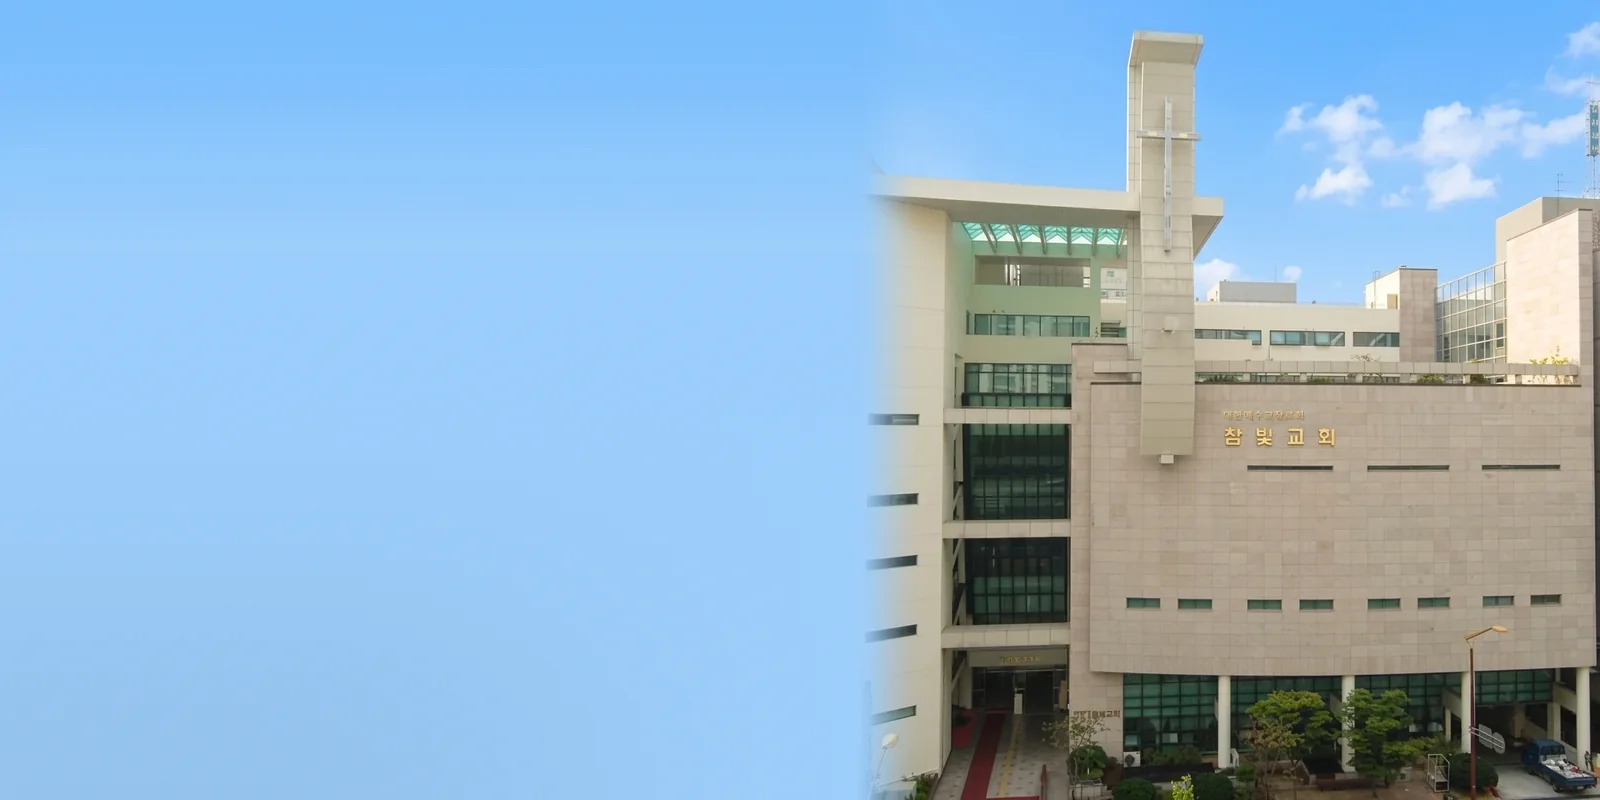
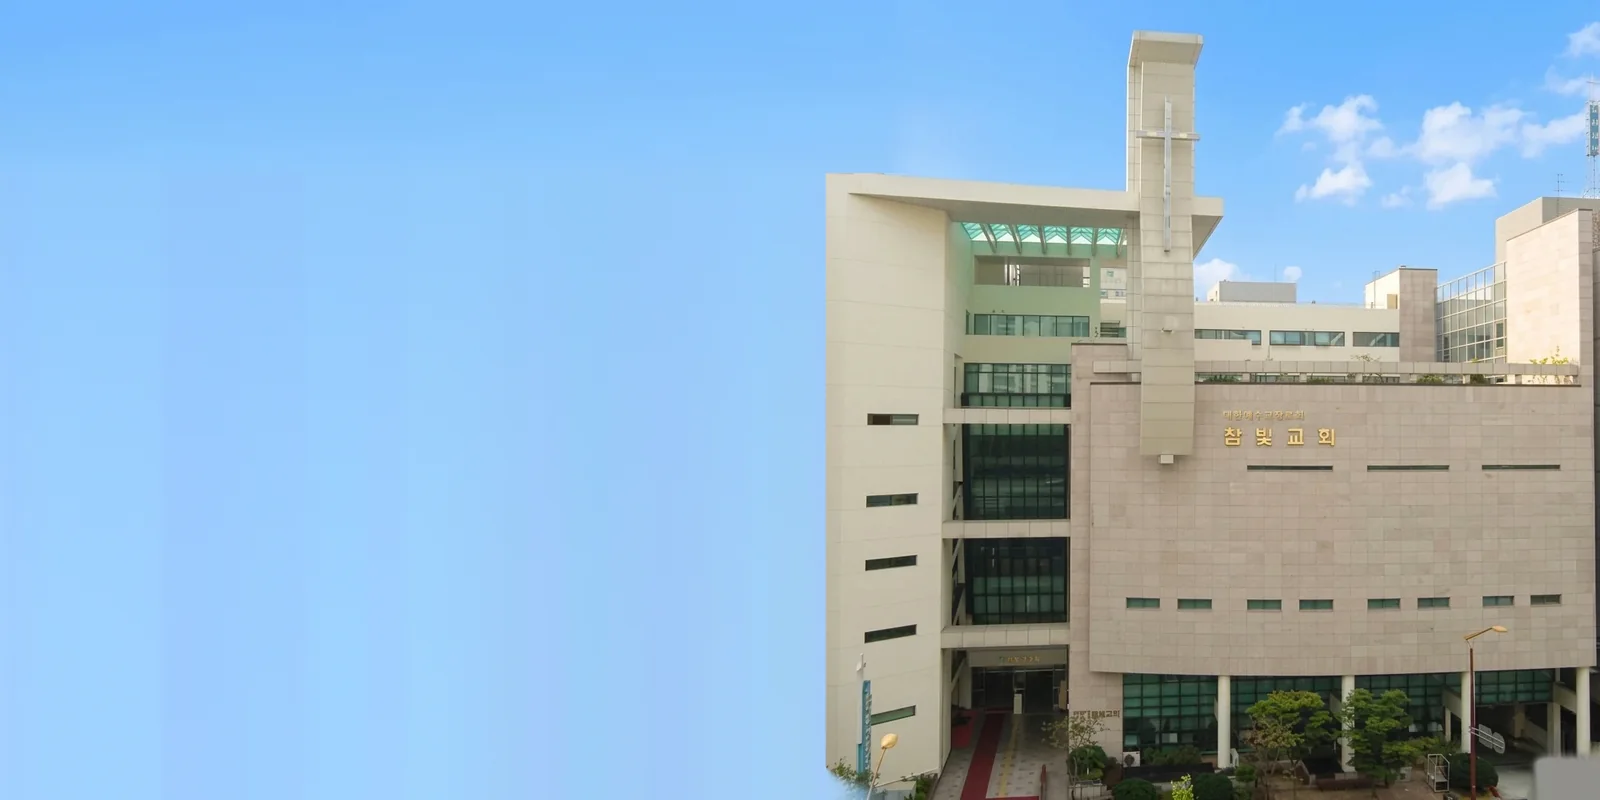
오시는길배경다시개선

Changed region(s): [[0.5, 0.2188, 0.5938, 1.0], [0.9375, 0.9062, 1.0, 1.0]]

diff --git a/frontend/src/pages/Visit/Visit.css b/frontend/src/pages/Visit/Visit.css
@@ -62,8 +62,9 @@
 }
 
 /* 사진 무대 — 실제 예배당 사진(라이트 낮 / 다크 밤, Visit.tsx 가 고른다).
-   자산은 1600x800(2:1) 와이드: 오른쪽 47%가 십자가 탑부터 입구·가로등까지 교회 전경,
-   왼쪽은 그 사진의 하늘을 이어 그린 여백(글자 자리). 카드는 자산보다 좁은 비율(16:10)이라
+   자산은 1600x800(2:1) 와이드(scripts/build_visit_hero.py): 오른쪽 48%가 십자가 탑부터 입구·가로등까지
+   교회 전경(왼쪽 동 실제 모서리에서 자름), 왼쪽은 그 사진의 진짜 하늘(구름 포함)을 이어 붙인 여백(글자 자리).
+   카드는 자산보다 좁은 비율(16:10)이라
    세로는 온전히 남고 왼쪽 하늘만 잘린다 — 오른쪽 기준 정렬이 교회를 지킨다.
    사진이 없으면 시간대 하늘 토큰으로 대신한다 */
 .visit-hero-photo {
@@ -106,19 +107,19 @@
   min-height: 0;
   aspect-ratio: 16 / 10;
 }
-/* 스크림 — 글자가 앉는 왼쪽 아래만 옅게 누른다. 교회 전경(오른쪽)은 원색 그대로.
+/* 스크림 — 글자가 앉는 왼쪽 아래 모서리에서 퍼지는 비네트 한 장만. 교회 전경(오른쪽)은 원색 그대로.
    (테마 분기 금지 원칙의 예외 — 사진 위 오버레이는 토큰으로 못 가르는 확정 패턴)
-   라이트: 낮 사진의 밝은 하늘·입구 위에 흰 글자가 뜨므로 바닥만 살짝. 가독성의 나머지는 halo 그림자.
+   폭 전체를 가로지르는 띠(to top)는 왼쪽 하늘 아랫부분을 탁한 회청색으로 만들어 사진 하늘과 색이
+   어긋나 보였다(2026-09-03) → 모서리 비네트로 좁히고 농도도 낮춘다. 가독성의 나머지는 halo 그림자.
    다크: 밤 사진은 하늘이 이미 남색이라 더 옅게 — 불 켜진 창과 가로등 불빛이 죽지 않게 */
 .visit-hero.has-photo .visit-hero-scrim {
   background:
-    linear-gradient(to top, rgba(10, 22, 48, 0.4) 0%, rgba(10, 22, 48, 0.16) 40%, transparent 70%),
-    linear-gradient(100deg, rgba(10, 22, 48, 0.14) 0%, rgba(10, 22, 48, 0.05) 40%, transparent 60%);
+    radial-gradient(110% 95% at 0% 100%, rgba(22, 82, 168, 0.3) 0%, rgba(22, 82, 168, 0.1) 45%, transparent 72%);
 }
+/* 라이트 스크림 색은 남색이 아니라 하늘의 자기 색(진한 하늘색) — 남색을 옅은 하늘에 얹으면 회청색 얼룩이 된다 */
 .dark .visit-hero.has-photo .visit-hero-scrim {
   background:
-    linear-gradient(to top, rgba(6, 14, 36, 0.4) 0%, rgba(6, 14, 36, 0.16) 38%, transparent 66%),
-    linear-gradient(100deg, rgba(6, 14, 36, 0.12) 0%, transparent 45%);
+    radial-gradient(110% 95% at 0% 100%, rgba(6, 14, 36, 0.34) 0%, rgba(6, 14, 36, 0.12) 45%, transparent 70%);
 }
 /* 안쪽 흰 링 — 유리 액자. 아주 옅게만: 라이트는 흰 페이지 위라 거의 안 보이고,
    다크는 밤하늘 위에서 선이 도드라지지 않을 만큼만 */

diff --git a/frontend/scripts/build_visit_hero.py b/frontend/scripts/build_visit_hero.py
@@ -1,19 +1,32 @@
 """/visit 히어로 자산 빌드.
 
 원본 예배당 사진(1024x1048, 낮/밤)을 오른쪽에 두고 — 십자가 탑부터 입구·가로등까지 전경 그대로 —
-왼쪽은 그 사진의 하늘에서 샘플한 그라데이션으로 이어 붙인 1600x800(2:1) 와이드 자산을 만든다.
-교회 왼쪽 가장자리(이웃 건물 제외)는 하늘로 부드럽게 녹인다.
+왼쪽은 그 사진의 '진짜 하늘'(구름 포함)을 좌우로 이어 붙인 1600x800(2:1) 와이드 자산을 만든다.
+
+이음새 원칙(2026-09-03, 이전 방식은 왼쪽 동을 세로로 잘라 72px 페더로 녹였는데
+'건물이 반쯤 지워진' 어색한 세로 경계 + 합성 하늘의 색이 사진과 안 맞는다는 피드백):
+  * 교회는 왼쪽 동 벽의 실제 모서리(원본 x=8)에서 자른다 — 경계가 건축선이라 페더가 필요 없다.
+  * 동 지붕 위로 보이던 이웃 건물(x<84, y<227)만 하늘로 지운다.
+  * 왼쪽 하늘은 합성 그라데이션이 아니라 사진의 하늘 영역(SKY_BOX)을 좌우 반전해 쓴다.
+    세로는 지붕 높이까지 사진과 같은 축척(이음새 색이 정의상 연속), 그 아래는 하늘 아랫부분을
+    길게 늘여 지평선 안개처럼 — 구름·안개 질감이 그대로라 '붙인 티'가 안 난다.
+  * 지면(맨 아래 몇 십 px)만 왼쪽으로 부드럽게 녹인다.
 
     python scripts/build_visit_hero.py
       → public/images/visit/_backup/church-{day,night}-src.webp 를 읽어
         public/images/visit/church-{day,night}.webp 를 덮어쓴다
-    python scripts/build_visit_hero.py 낮원본.png 밤원본.png   # 다른 원본으로
+    python scripts/build_visit_hero.py 낮원본.png 밤원본.png   # 다른 원본으로 (같은 구도여야 한다)
 """
 import sys
 from pathlib import Path
 
 import numpy as np
 from PIL import Image, ImageDraw, ImageFilter
+
+try:
+    import cv2
+except ImportError:  # pragma: no cover
+    cv2 = None
 
 ROOT = Path(__file__).resolve().parents[1]
 VISIT = ROOT / 'public' / 'images' / 'visit'
@@ -22,26 +35,50 @@ SRC = {
     'night': Path(sys.argv[2]) if len(sys.argv) > 2 else VISIT / '_backup' / 'church-night-src.webp',
 }
 W, H = 1600, 800
-CROP_L = 44          # 원본 왼쪽 끝의 이웃 건물 잘라냄
-FEATHER = 72         # 교회 왼쪽 가장자리를 하늘로 녹이는 폭(캔버스 px). 260이면 왼쪽 동(약 140px)이 통째로 사라지고,
-                     # 120도 왼쪽 동 창이 반쯤 가려 '사진을 덜 가리게' 피드백 → 좁게
-SKY_X = (540, 600)   # 순수 하늘 샘플 열(원본 좌표, 십자가 탑 오른쪽)
-SKY_Y = 330          # 이 행까지가 순수 하늘
-# 지평선 쪽 외삽 감쇠 — 낮은 옅게 밝아져도 자연스럽지만 밤은 남색을 지켜야 회보라로 바래지 않는다
-DAMP = {'day': 0.05, 'night': 0.10}   # 낮 0.35는 왼쪽 아래가 희게 바래 오른쪽 사진 하늘과 색이 안 맞았다(2026-09-03)
-FLATTEN = {'day': 0.35, 'night': 0.0}   # 밤 0.45는 위쪽이 사진 하늘보다 밝아져 좌우 색이 어긋났다(2026-09-03)
-# 먼 도시 보케: zoom=캔버스 높이 대비 확대, blur=흐림 반경, hi_from 이상 밝기만 점광(glow·warm 색),
-# lo_to 이하 어둠은 shade 만큼 눌러 건물 실루엣. 2026-09-03 현재 glow·shade=0 으로 꺼둠 —
-# 흐린 띠가 '얼룩'으로 읽힌다는 피드백. 레퍼런스처럼 깨끗한 하늘 + 잎 실루엣만 쓴다
-BOKEH = {
-    'day': dict(zoom=1.4, blur=30, hi_from=0.80, glow=0.0, warm=(255, 250, 235), lo_to=0.45, shade=0.0),
-    'night': dict(zoom=1.4, blur=26, hi_from=0.45, glow=0.0, warm=(214, 178, 118), lo_to=0.16, shade=0.0),
-}
+WING_X = 8                     # 왼쪽 동 벽의 실제 모서리(원본 x). 그 왼쪽은 이웃 건물
+NEIGH = (84, 227)              # 이웃 건물이 동 지붕 위로 보이는 영역: x<84, y<227 (원본) → 하늘로
+SKY_BOX = (84, 0, 400, 226)    # 왼쪽 동 바로 옆 하늘(구름 없음, 십자가 탑 왼쪽) — 이음새와 같은 색.
+                               # 오른쪽 구름 하늘(500~865)을 늘려 쓰면 구름이 얼룩처럼 번지고 색도 벽 옆보다 진해
+                               # 어긋난다는 피드백(2026-09-03)
+EXT_DAMP = {'day': 0.18, 'night': 0.08}   # 지붕 아래로 하늘 아랫부분의 밝아지는 추세를 옅게만 이어 간다 — 밤은 남색을 지켜야 회보라로 안 바랜다
+EDGE_SOFT = 2.5                # 벽 모서리 안티에일리어싱 폭(px)
+GROUND_Y = 1000                # 이 행(원본) 아래 지면만 왼쪽으로 녹인다
+GROUND_FEATHER = 90
+TEX_BLUR = 5                   # 늘린 하늘의 보간 자국을 지우는 정도
+# 원본 오른쪽 아래 용달차(+옆 사람)를 지운다(2026-09-03 요청). OpenCV FSR 인페인팅 — Telea·패치 복제는
+# 얼룩·타일 무늬가 났고, 광장 바닥은 FSR 이 가장 매끈했다. 다각형은 원본 좌표
+REMOVE_POLYS = [
+    [(914, 972), (975, 962), (1024, 972), (1024, 1048), (930, 1048), (914, 1030)],   # 용달차
+    [(1000, 978), (1018, 978), (1018, 1012), (1000, 1012)],                           # 사람
+]
 # 잎 실루엣: rx·ry=왼쪽 위 기준 타원 마스크 반경(화면 비율), alpha=최대 농도, darken=실루엣 색(하늘색×배율)
 FOLIAGE = {
-    'day': dict(rx=0.62, ry=0.80, alpha=0.0, darken=0.80, vignette=0.06),   # 라이트는 나무 없이 파란 하늘만(사용자 결정)
-    'night': dict(rx=0.62, ry=0.80, alpha=0.82, darken=0.52, vignette=0.07),
+    'day': dict(rx=0.62, ry=0.80, alpha=0.0, darken=0.80),    # 라이트는 나무 없이 파란 하늘만(사용자 결정)
+    'night': dict(rx=0.62, ry=0.80, alpha=0.82, darken=0.52),  # 밤은 모서리에 걸린 가지 몇 개(2026-09-03 유지)
 }
+
+
+
+def smoothstep(t):
+    t = np.clip(t, 0, 1)
+    return t * t * (3 - 2 * t)
+
+
+def remove_objects(im, polys):
+    """다각형 영역을 주변 질감으로 메운다(FSR). OpenCV contrib 이 없으면 원본 그대로 두고 경고."""
+    if cv2 is None or not hasattr(cv2, 'xphoto'):
+        print('  ! opencv-contrib 없음 — 용달차 제거 생략')
+        return im
+    mask = Image.new('L', im.size, 0)
+    d = ImageDraw.Draw(mask)
+    for poly in polys:
+        d.polygon(poly, fill=255)
+    keep = (255 - np.asarray(mask)).astype(np.uint8)
+    bgr = cv2.cvtColor(np.asarray(im), cv2.COLOR_RGB2BGR)
+    dst = np.zeros_like(bgr)
+    cv2.xphoto.inpaint(bgr, keep, dst, cv2.xphoto.INPAINT_FSR_BEST)
+    return Image.fromarray(cv2.cvtColor(dst, cv2.COLOR_BGR2RGB))
+
 
 def foliage_mask(w, h, seed=0):
     """왼쪽 위에서 늘어진 나뭇가지 실루엣(0~1 마스크).
@@ -118,76 +155,60 @@ def foliage_mask(w, h, seed=0):
     return np.clip(sharp + 0.15 * soft, 0, 1)
 
 
-def smoothstep(t):
-    t = np.clip(t, 0, 1)
-    return t * t * (3 - 2 * t)
-
-
 for key, path in SRC.items():
-    im = Image.open(path).convert('RGB')
-    src = np.asarray(im).astype(np.float32)
+    im = remove_objects(Image.open(path).convert('RGB'), REMOVE_POLYS)
     scale = H / im.height
 
-    # 하늘 그라데이션: 샘플 열의 행별 평균 → 캔버스 스케일로 보간 → 아래로 완만히 외삽
-    col = src[:SKY_Y, SKY_X[0]:SKY_X[1]].mean(axis=1)
-    sky_rows = int(SKY_Y * scale)
-    ys = np.linspace(0, SKY_Y - 1, sky_rows)
-    grad = np.stack([np.interp(ys, np.arange(SKY_Y), col[:, c]) for c in range(3)], axis=1)
-    top, bot = grad[:40].mean(axis=0), grad[-40:].mean(axis=0)
-    slope = (bot - top) / max(sky_rows, 1)
-    rest = H - sky_rows
-    t = np.arange(rest) / max(rest, 1)
-    ext = bot[None, :] + slope[None, :] * (rest * (1 - (1 - t) ** 2) * DAMP[key])[:, None]
-    grad = np.clip(np.concatenate([grad, ext], axis=0), 0, 255)
-    # 밤: 지평선 밝은 띠를 눌러 하늘을 고르게(중간이 뿌옇게 밝으면 안개처럼 보인다)
-    grad = grad * (1 - FLATTEN[key]) + grad.mean(axis=0, keepdims=True) * FLATTEN[key]
-    canvas = np.repeat(grad[:, None, :], W, axis=1)
+    # ── 하늘 캔버스: 사진의 진짜 하늘을 좌우 반전해 캔버스 전체 폭으로(구름이 가로로 길어지는 건 층운처럼 자연스럽다)
+    sky = im.crop(SKY_BOX).transpose(Image.FLIP_LEFT_RIGHT)
+    sky_h = SKY_BOX[3] - SKY_BOX[1]
+    roof_c = int(NEIGH[1] * scale)                       # 캔버스에서 동 지붕 높이
+    s = np.asarray(sky.resize((W, sky_h), Image.LANCZOS)).astype(np.float32)
+    # 세로: 하늘 샘플 높이까지 1:1(이음새 색 연속), 그 아래는 마지막 행 색을 잇되 지평선 쪽 밝아지는 추세만 옅게 외삽
+    top_c = int(sky_h * scale)
+    ys = np.minimum(np.arange(H) / scale, sky_h - 1)
+    canvas = np.stack(
+        [np.stack([np.interp(ys, np.arange(sky_h), s[:, x, c]) for c in range(3)], axis=1) for x in range(W)],
+        axis=1,
+    )
+    slope = (s[-20:].mean(axis=0) - s[-60:-40].mean(axis=0)) / (40 / scale)   # 캔버스 행당 변화
+    rest = H - top_c
+    t = np.arange(rest) / max(rest - 1, 1)
+    canvas[top_c:] += (slope[None, :, :] * (rest * (1 - (1 - t) ** 2) * EXT_DAMP[key])[:, None, None])
+    canvas = np.asarray(
+        Image.fromarray(np.clip(canvas, 0, 255).astype(np.uint8)).filter(ImageFilter.GaussianBlur(TEX_BLUR))
+    ).astype(np.float32)
 
-    # ── 왼쪽 여백을 '심도 흐림 장면'으로: 단색 하늘은 밋밋하다는 피드백(2026-09-03) ──
-    yy, xx = np.mgrid[0:H, 0:W]
-    fx, fy = xx / W, yy / H
-    left_mask = 1 - smoothstep((fx - 0.28) / 0.30)          # 왼쪽에서 교회 쪽으로 사라지는 가중치
-
-    # (1) 먼 도시 보케: 사진을 좌우 반전·확대·강하게 흐린 뒤, 밝은 부분(불 켜진 창)만 따뜻한
-    #     점광으로 얹고 어두운 덩어리는 살짝만 눌러 '멀리 흐릿한 건물 실루엣'을 만든다.
-    #     흐린 사진을 통째로 깔면 회색 안개가 되므로(검증됨) 하이라이트·섀도만 쓴다
-    bk = BOKEH[key]
-    big = im.transpose(Image.FLIP_LEFT_RIGHT)
-    bh = int(H * bk['zoom'])
-    big = big.resize((round(big.width * bh / big.height), bh), Image.LANCZOS)
-    big = big.filter(ImageFilter.GaussianBlur(bk['blur']))
-    lum = np.asarray(big.convert('L')).astype(np.float32) / 255
-    lum = lum[bh - H:, :W] if lum.shape[1] >= W else np.pad(lum[bh - H:], ((0, 0), (0, W - lum.shape[1])), mode='edge')
-    band = smoothstep((fy - 0.30) / 0.25) * (1 - smoothstep((fy - 0.80) / 0.15))   # 화면 중간~아래 띠
-    hi = np.clip((lum - bk['hi_from']) / (1 - bk['hi_from']), 0, 1) * band * left_mask
-    lo = np.clip((bk['lo_to'] - lum) / bk['lo_to'], 0, 1) * band * left_mask
-    warm = np.array(bk['warm'], np.float32)[None, None, :]
-    canvas = canvas * (1 - bk['shade'] * lo[..., None])
-    canvas = canvas + (warm - canvas) * (bk['glow'] * hi)[..., None]
-
-    # (2) 초점 밖 잎·가지 실루엣(절차적): 왼쪽 위 모서리에서 늘어진 가지에 잎을 흩뿌리고 흐린다.
-    #     사진의 나무를 잘라 쓰면 창문 격자가 딸려와 어색하다(검증됨)
+    # ── 초점 밖 잎·가지 실루엣(절차적, 밤만): 왼쪽 위 모서리에서 늘어진 가지.
+    #    사진의 나무를 잘라 쓰면 창문 격자가 딸려와 어색하다(검증됨)
     fl = FOLIAGE[key]
     if fl['alpha'] > 0:
+        yy, xx = np.mgrid[0:H, 0:W]
+        fx, fy = xx / W, yy / H
         sil = foliage_mask(W, H, seed=11)
         r = np.sqrt((fx / fl['rx']) ** 2 + (fy / fl['ry']) ** 2)
         sil = sil * (1 - smoothstep((r - 0.5) / 0.5)) * fl['alpha']
         canvas = canvas * (1 - sil[..., None]) + (canvas * fl['darken']) * sil[..., None]
 
-    # (3) 글자 자리 바닥·왼쪽 모서리를 살짝 눌러 텍스트가 뜨게
-    vig = (1 - fl['vignette'] * smoothstep((fy - 0.45) / 0.55) * (1 - smoothstep((fx - 0.15) / 0.45)))[..., None]
-    canvas = canvas * vig
-
-    canvas += np.random.default_rng(7).normal(0, 1.2, canvas.shape)  # 밴딩 방지 노이즈
-
-    # 교회 레이어: 높이 H 에 맞춰 축소, 오른쪽 정렬, 왼쪽 가장자리 페더
-    church = im.crop((CROP_L, 0, im.width, im.height))
+    # ── 교회 레이어: 실제 모서리에서 자르고 오른쪽 정렬
+    church = im.crop((WING_X, 0, im.width, im.height))
     cw = round(church.width * scale)
     ch = np.asarray(church.resize((cw, H), Image.LANCZOS)).astype(np.float32)
     x0 = W - cw
-    alpha = smoothstep(np.arange(cw) / FEATHER)[None, :, None]
-    canvas[:, x0:, :] = ch * alpha + canvas[:, x0:, :] * (1 - alpha)
+    yy, xx = np.mgrid[0:H, 0:cw]
+    alpha = smoothstep(xx / EDGE_SOFT)
+    # 지붕 위 이웃 건물 지우기
+    nx = (NEIGH[0] - WING_X) * scale
+    neigh = (1 - smoothstep((xx - nx) / 40)) * (1 - smoothstep((yy - (roof_c - 1)) / 1.0))
+    alpha = alpha * (1 - neigh)
+    # 지면: 아래로 갈수록 넓게 녹인다
+    gy = GROUND_Y * scale
+    gw = GROUND_FEATHER * smoothstep((yy - gy) / (H - gy))
+    alpha = alpha * np.where(gw > 0, smoothstep(xx / np.maximum(gw, 1e-3)), 1)
+    a = alpha[..., None]
+    canvas[:, x0:, :] = ch * a + canvas[:, x0:, :] * (1 - a)
 
+    canvas += np.random.default_rng(7).normal(0, 1.0, canvas.shape)  # 밴딩 방지 노이즈
     out = Image.fromarray(np.clip(canvas, 0, 255).astype(np.uint8))
     dest = VISIT / f'church-{key}.webp'
     out.save(dest, 'WEBP', quality=84, method=6)
